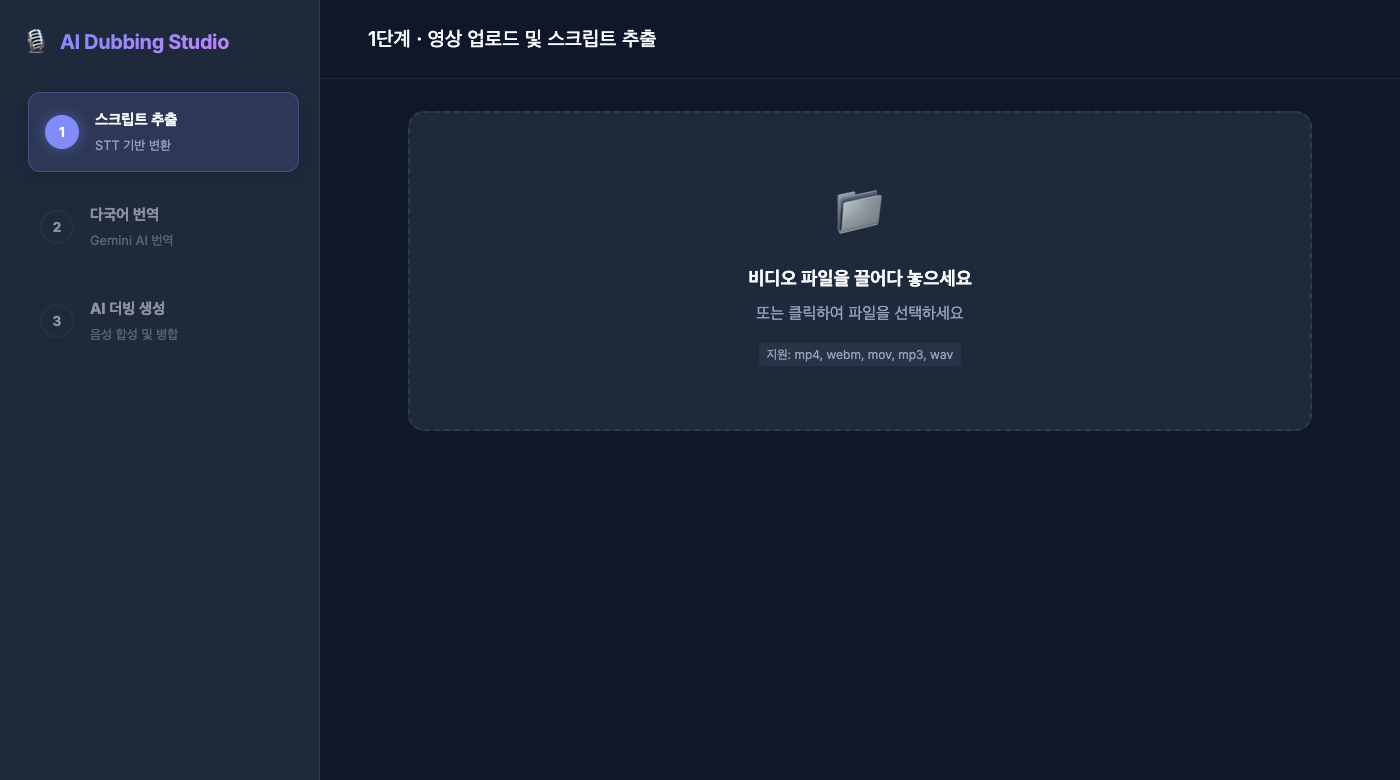
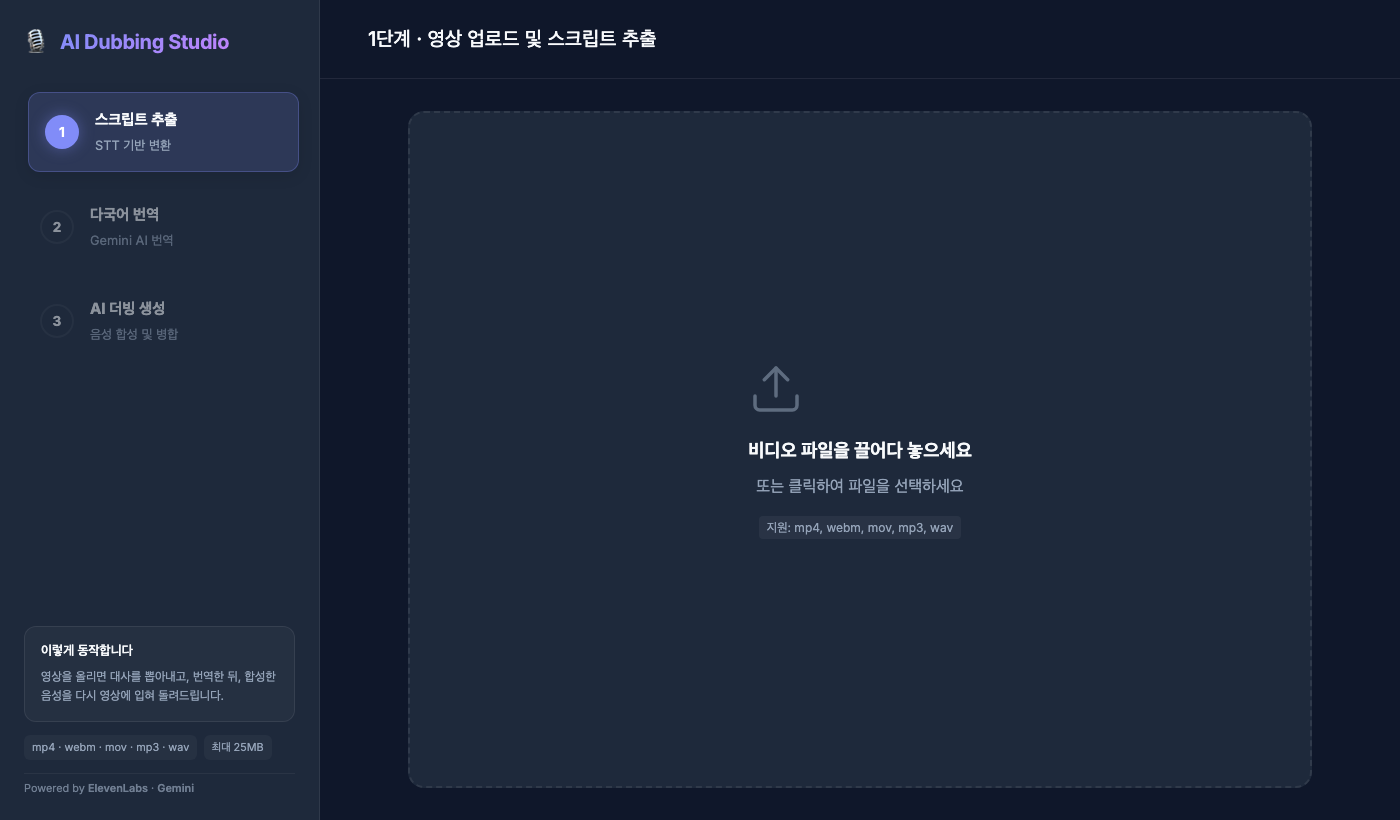
style: 초기 화면 레이아웃 및 사이드바 정리
- 업로드 드롭존이 남는 세로 공간을 채우도록 수정 (화면 하단 공백 해소)
- 업로드 아이콘을 이모지에서 SVG로 교체, 호버 시 강조 색 적용
- 사이드바 하단에 동작 안내 · 지원 형식 · 용량 제한 표시 추가
- 스크린샷 갱신

diff --git a/public/styles.css b/public/styles.css
@@ -260,10 +260,34 @@ body {
     margin-bottom: 2rem;
 }
 
+/* 초기 업로드 화면 — 드롭존이 남은 세로 공간을 채우도록 */
+.content-body:not(.studio-mode) {
+    display: flex;
+    flex-direction: column;
+}
+.content-body:not(.studio-mode) .studio-wrapper,
+.content-body:not(.studio-mode) .upload-section {
+    flex: 1;
+    display: flex;
+    flex-direction: column;
+    min-height: 0;
+}
+.content-body:not(.studio-mode) .upload-section {
+    margin-bottom: 0;
+}
+.content-body:not(.studio-mode) .drop-zone {
+    flex: 1;
+    display: flex;
+    flex-direction: column;
+    align-items: center;
+    justify-content: center;
+    min-height: 320px;
+}
+
 .drop-zone {
     border: 2px dashed var(--border);
     border-radius: 16px;
-    padding: 4rem 2rem;
+    padding: 3rem 2rem;
     text-align: center;
     cursor: pointer;
     background: var(--bg-panel);
@@ -276,9 +300,20 @@ body {
 }
 
 .upload-icon {
-    font-size: 3rem;
-    margin-bottom: 1rem;
-    opacity: 0.8;
+    margin-bottom: 1.25rem;
+    opacity: 0.55;
+    color: var(--text-muted);
+    transition: opacity 0.3s ease, color 0.3s ease;
+}
+.upload-icon svg {
+    display: block;
+    width: 56px;
+    height: 56px;
+}
+.drop-zone:hover .upload-icon,
+.drop-zone.dragover .upload-icon {
+    opacity: 1;
+    color: var(--primary);
 }
 
 .drop-zone h3 {
@@ -835,4 +870,54 @@ body {
 
 @keyframes spin {
     to { transform: rotate(360deg); }
+}
+
+/* ── 사이드바 하단 안내 ────────────────────────── */
+.sidebar-footer {
+    margin-top: auto;
+    padding-top: 1.5rem;
+    display: flex;
+    flex-direction: column;
+    gap: 0.85rem;
+}
+.sidebar-note {
+    background: rgba(255, 255, 255, 0.03);
+    border: 1px solid var(--border);
+    border-radius: 12px;
+    padding: 0.9rem 1rem;
+}
+.sidebar-note h5 {
+    font-size: 0.8rem;
+    font-weight: 600;
+    margin-bottom: 0.4rem;
+    color: var(--text-main);
+}
+.sidebar-note p {
+    font-size: 0.75rem;
+    line-height: 1.65;
+    color: var(--text-muted);
+    word-break: keep-all;
+}
+.sidebar-meta {
+    display: flex;
+    flex-wrap: wrap;
+    gap: 0.4rem;
+}
+.sidebar-meta span {
+    font-size: 0.68rem;
+    color: var(--text-muted);
+    background: rgba(255, 255, 255, 0.04);
+    border-radius: 6px;
+    padding: 0.25rem 0.5rem;
+}
+.sidebar-powered {
+    font-size: 0.68rem;
+    color: var(--text-muted);
+    opacity: 0.7;
+    padding-top: 0.35rem;
+    border-top: 1px solid var(--border);
+}
+.sidebar-powered b {
+    font-weight: 600;
+    color: var(--text-muted);
 }

diff --git a/public/index.html b/public/index.html
@@ -41,6 +41,20 @@
                     </div>
                 </div>
             </div>
+
+            <div class="sidebar-footer">
+                <div class="sidebar-note">
+                    <h5>이렇게 동작합니다</h5>
+                    <p>영상을 올리면 대사를 뽑아내고, 번역한 뒤, 합성한 음성을 다시 영상에 입혀 돌려드립니다.</p>
+                </div>
+                <div class="sidebar-meta">
+                    <span>mp4 · webm · mov · mp3 · wav</span>
+                    <span>최대 25MB</span>
+                </div>
+                <div class="sidebar-powered">
+                    Powered by <b>ElevenLabs</b> · <b>Gemini</b>
+                </div>
+            </div>
         </aside>
 
         <!-- Main Content Area -->
@@ -55,7 +69,7 @@
                     <div class="upload-section" id="media-col">
                         <div class="drop-zone" id="drop-zone">
                             <div class="drop-zone-content">
-                                <div class="upload-icon">📁</div>
+                                <div class="upload-icon"><svg viewBox="0 0 24 24" fill="none" stroke="currentColor" stroke-width="1.5" stroke-linecap="round" stroke-linejoin="round"><path d="M21 15v4a2 2 0 0 1-2 2H5a2 2 0 0 1-2-2v-4"/><polyline points="17 8 12 3 7 8"/><line x1="12" y1="3" x2="12" y2="15"/></svg></div>
                                 <h3>비디오 파일을 끌어다 놓으세요</h3>
                                 <p>또는 클릭하여 파일을 선택하세요</p>
                                 <span class="file-hint">지원: mp4, webm, mov, mp3, wav</span>
